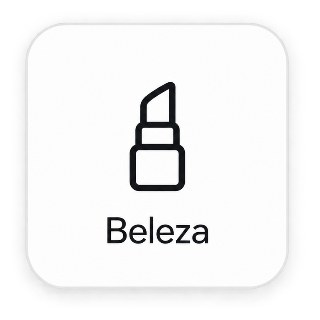
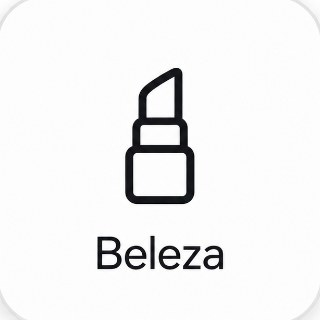
fix: ícones de categoria sem sombra inconsistente + menu unificado
- Recorte dos 18 ícones refeito: cortava até a borda de alpha>10 (incluía
  a sombra do PNG original, com espessura diferente por imagem — Moda
  tinha um "quadrado interno" visivelmente menor que Casa/Ferramentas).
  Agora corta até a borda opaca (alpha>250), removendo a sombra do
  arquivo original por completo — todos ficam lisos, iguais ao Infantil.
- Página de categoria usava CategoryChips (pílulas escuras, modelo
  antigo) pra trocar de categoria; trocado pela mesma CategoryGrid da
  Home, com o item atual destacado por um contorno verde. CategoryChips
  removido (sem mais uso).

diff --git a/src/components/site/CategoryGrid.tsx b/src/components/site/CategoryGrid.tsx
@@ -2,19 +2,22 @@ import { CATEGORY_TILES } from "../../lib/site/categoryTiles";
 import { CATEGORY_ICONS } from "./icons";
 
 /**
- * Grade de categorias da Home: 2 linhas fixas, rolagem horizontal (visual
- * de carrossel) — mesmo padrão de apps de marketplace grandes. Usa as
- * artes prontas (ícone + rótulo já desenhados) geradas pelo ChatGPT;
- * quando ainda não existe arte nova pra categoria (caso da Infantil por
+ * Grade de categorias: 2 linhas fixas, rolagem horizontal (visual de
+ * carrossel) — mesmo padrão de apps de marketplace grandes. Usa as artes
+ * prontas (ícone + rótulo já desenhados) geradas pelo ChatGPT; quando
+ * ainda não existe arte nova pra categoria (caso da Infantil por
  * enquanto), cai num ladrilho equivalente montado com o ícone antigo.
+ * Reaproveitada tanto na Home quanto na página de categoria (com
+ * `activeSlug` pra destacar em qual categoria o usuário está).
  */
-export function CategoryGrid() {
+export function CategoryGrid({ activeSlug }: { activeSlug?: string } = {}) {
   return (
     <div className="dc-cat-grid-scroll">
       <div className="dc-cat-grid">
         {CATEGORY_TILES.map((tile) => {
           const href = tile.href ?? `/categoria/${tile.slug}`;
           const FallbackIcon = tile.image ? null : CATEGORY_ICONS[tile.slug];
+          const active = tile.slug === activeSlug;
 
           const inner = tile.image ? (
             <img
@@ -31,7 +34,11 @@ export function CategoryGrid() {
 
           if (tile.available) {
             return (
-              <a key={tile.slug} href={href} className="dc-cat-tile-link">
+              <a
+                key={tile.slug}
+                href={href}
+                className={`dc-cat-tile-link${active ? " dc-cat-tile-active" : ""}`}
+              >
                 {inner}
               </a>
             );

diff --git a/src/app/globals.css b/src/app/globals.css
@@ -237,43 +237,6 @@ img {
   letter-spacing: -0.01em;
 }
 
-.dc-chip-row {
-  display: flex;
-  gap: 9px;
-  overflow-x: auto;
-  padding-bottom: 4px;
-  -ms-overflow-style: none;
-  scrollbar-width: none;
-}
-
-.dc-chip-row::-webkit-scrollbar {
-  display: none;
-}
-
-.dc-chip {
-  flex: none;
-  display: flex;
-  align-items: center;
-  gap: 7px;
-  padding: 9px 16px;
-  border-radius: 999px;
-  background: var(--dc-card-bg);
-  border: 2px solid var(--dc-border);
-  text-decoration: none;
-  font-size: 14px;
-  font-weight: 700;
-  color: var(--dc-text);
-  transition: background 0.25s ease, border-color 0.25s ease, color 0.25s ease, transform 0.25s ease;
-}
-
-.dc-chip:hover,
-.dc-chip-active {
-  background: var(--dc-black);
-  border-color: var(--dc-black);
-  color: var(--dc-green-bright);
-  transform: translateY(-1px);
-}
-
 .dc-icon-inline {
   display: inline-flex;
   align-items: center;
@@ -359,6 +322,12 @@ a.dc-cat-page-tile:hover .dc-cat-tile-fallback {
 
 a.dc-cat-tile-link:hover {
   transform: translateY(-3px);
+}
+
+.dc-cat-tile-active .dc-cat-tile-img,
+.dc-cat-tile-active .dc-cat-tile-fallback {
+  outline: 2px solid var(--dc-green-deep);
+  outline-offset: 2px;
 }
 
 a.dc-cat-tile-link:hover .dc-cat-tile-img,

diff --git a/src/app/categoria/[slug]/page.tsx b/src/app/categoria/[slug]/page.tsx
@@ -1,7 +1,7 @@
 import { notFound } from "next/navigation";
 import { Header } from "../../../components/site/Header";
 import { Footer } from "../../../components/site/Footer";
-import { CategoryChips } from "../../../components/site/CategoryChips";
+import { CategoryGrid } from "../../../components/site/CategoryGrid";
 import { ProductGrid } from "../../../components/site/ProductGrid";
 import { getCategoryBySlug, SITE_CATEGORIES } from "../../../lib/site/categories";
 import { getCachedCategory } from "../../../lib/site/catalog";
@@ -39,7 +39,7 @@ export default async function CategoryPage({ params }: { params: { slug: string 
           </h1>
         </section>
         <section className="dc-section">
-          <CategoryChips activeSlug={category.slug} />
+          <CategoryGrid activeSlug={category.slug} />
         </section>
         <section className="dc-section">
           <ProductGrid
